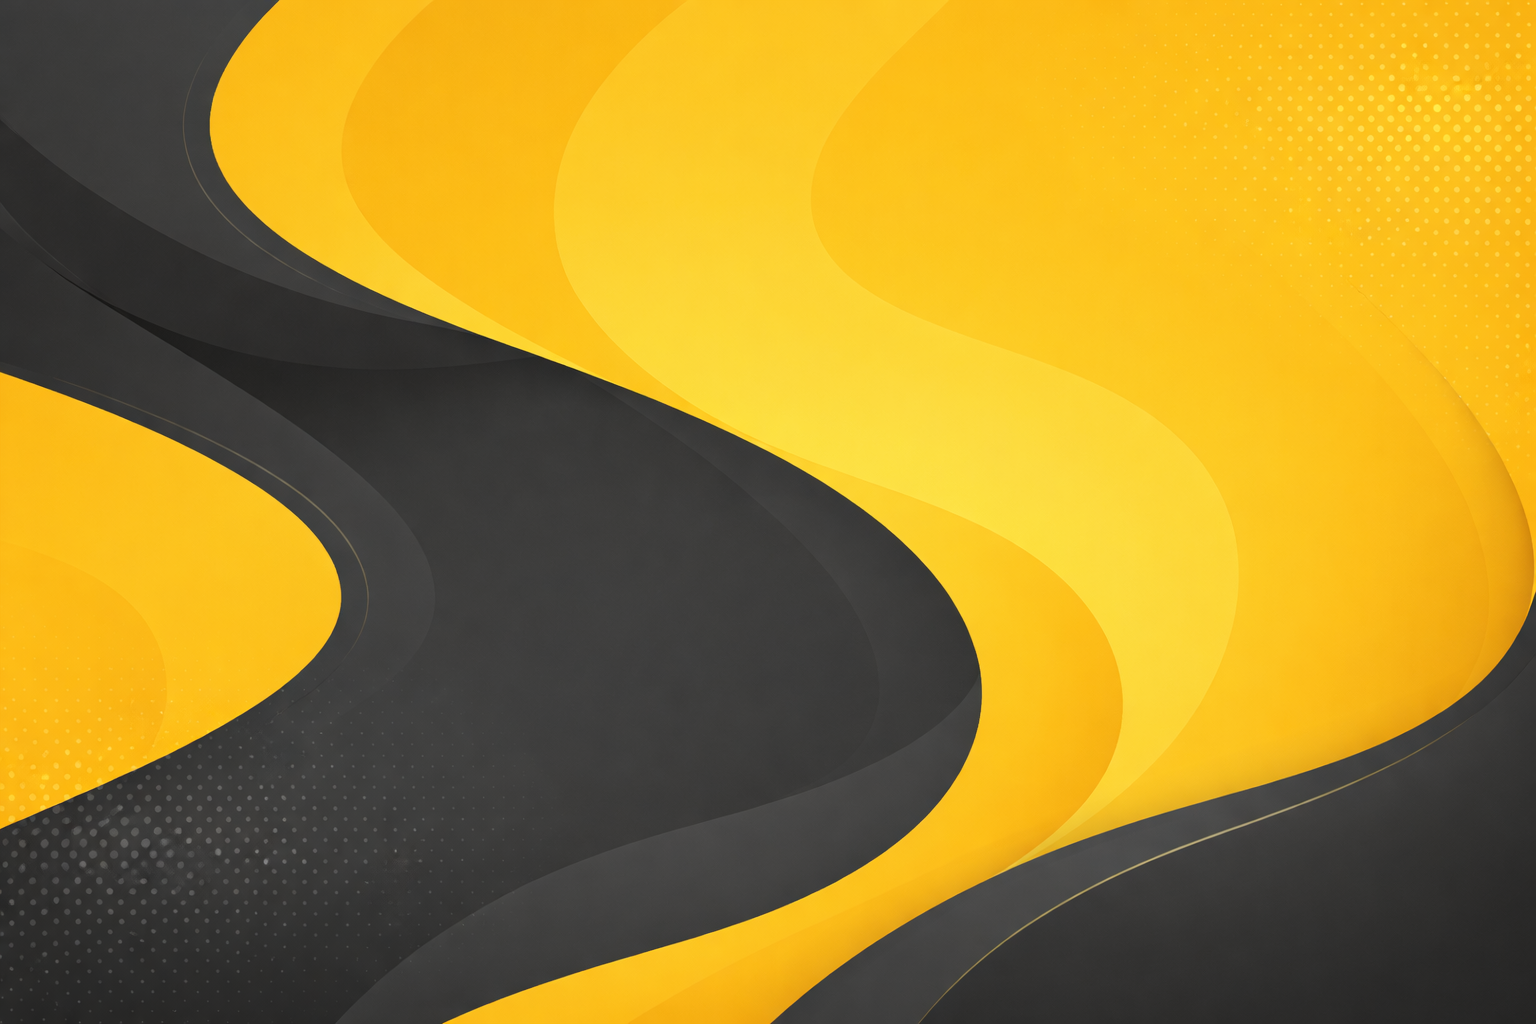
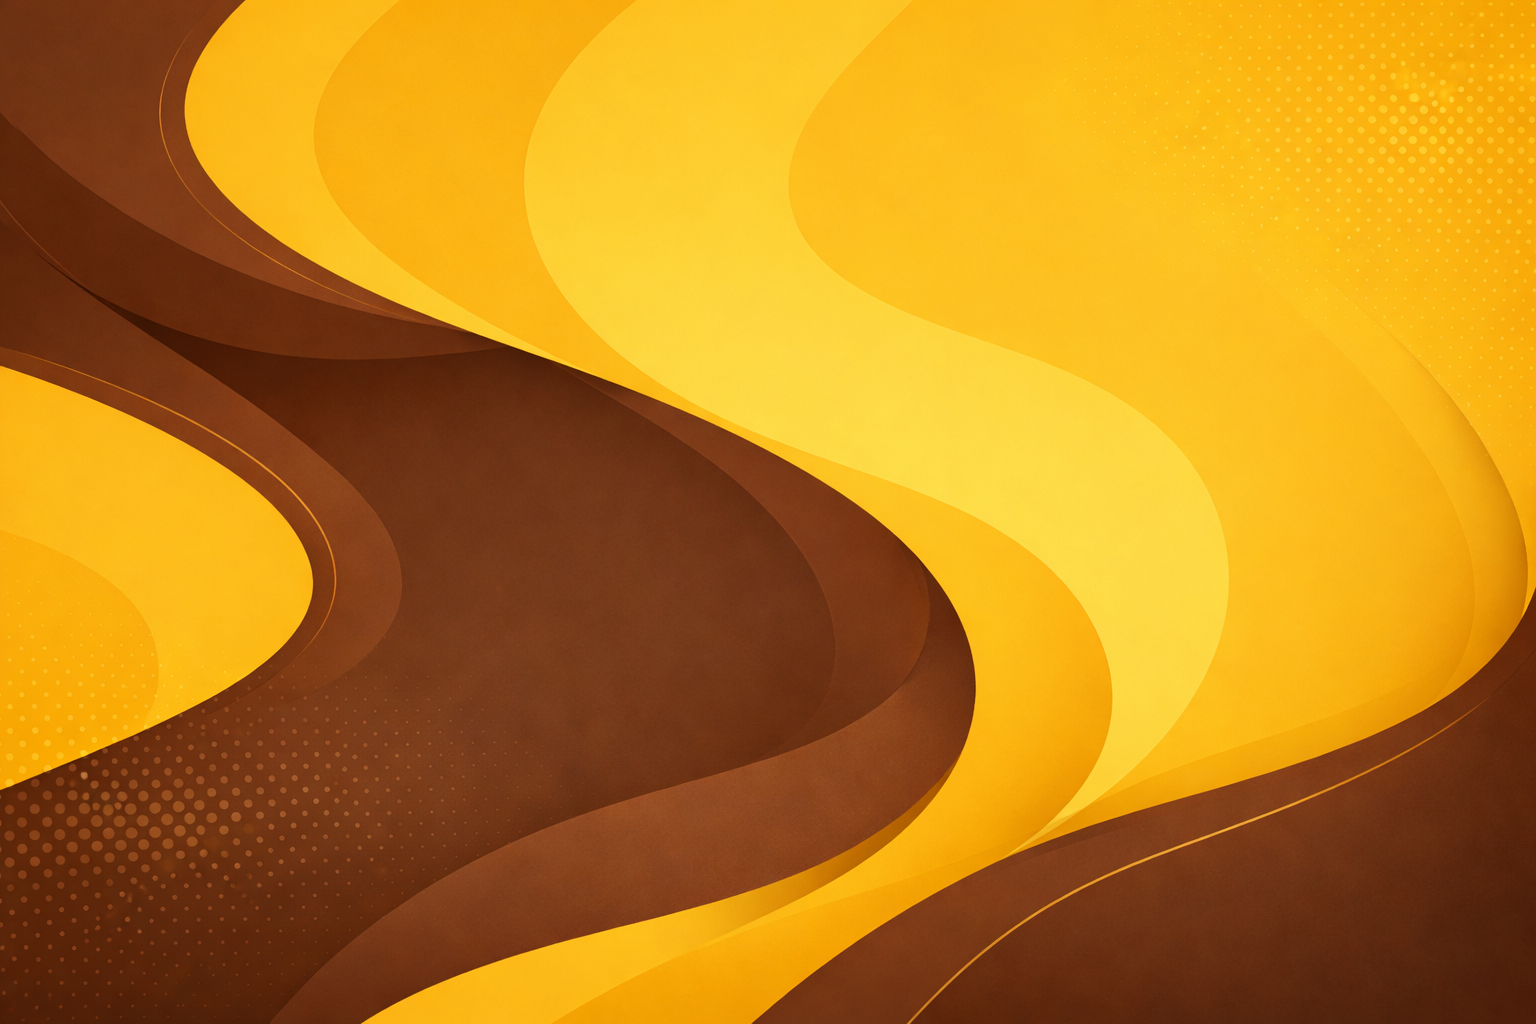
Ajustes no layout da finalização da compra

diff --git a/src/components/cart/CheckoutDrawer/index.tsx b/src/components/cart/CheckoutDrawer/index.tsx
@@ -89,15 +89,14 @@ export function CheckoutDrawer({ isOpen, onClose, cart }: Props) {
 
   return (
     <div
-      className={`fixed top-0 right-0 z-50 h-full w-full text-white shadow-xl transition-transform ${
+      className={`bg-gray-900/80 fixed top-0 right-0 z-50 h-full w-full p-5 text-white shadow-xl transition-transform ${
         isOpen ? 'translate-x-0' : 'translate-x-full'
-      }`}
-    >
+      } md:p-15 lg:p-20 `}>
       <form
         onSubmit={handleSubmit}
-        className="bg-w1 text-g2 h-full overflow-y-auto p-6"
+        className="bg-marrom-1 text-y1 h-full overflow-y-auto p-6"
       >
-        <div className="text-g2 mb-4 flex items-center justify-between">
+        <div className="text-y1 mb-4 flex items-center justify-between">
           <h2 className="text-2xl font-bold">Finalizar Pedido</h2>
           <button
             type="button"
@@ -111,46 +110,46 @@ export function CheckoutDrawer({ isOpen, onClose, cart }: Props) {
         {/* Dados */}
 
         <div className="flex flex-col">
-          <h3 className="mb-2 text-lg font-bold">Seus Dados</h3>
+          <h3 className="mb-2 text-lg font-bold mt-5">Seus Dados</h3>
 
           <label>Nome:</label>
           <input
             name="nome"
             required
             placeholder="Seu nome completo"
-            className="input bg-g1 rounded-md border p-2 placeholder:text-gray-500"
+            className="input bg-marrom-3 rounded-md p-2 placeholder:text-w1 text-w1 border-y1 border-2"
           />
 
-          <label>E-mail:</label>
+          <label className='mt-5'>E-mail:</label>
           <input
             name="email"
             type="email"
             placeholder="seu@email.com"
-            className="input bg-g1 rounded-md border p-2 placeholder:text-gray-500"
+            className="input bg-marrom-3 rounded-md p-2 placeholder:text-w1 text-w1 border-y1 border-2"
           />
 
-          <label>Telefone:</label>
+          <label className='mt-5'>Telefone:</label>
           <input
             name="telefone"
             required
             placeholder="(11) 99999-9999"
-            className="input bg-g1 rounded-md border p-2 placeholder:text-gray-500"
+            className="input bg-marrom-3 rounded-md p-2 placeholder:text-w1 text-w1 border-y1 border-2"
           />
         </div>
 
         {/* Tipo entrega */}
         <div className="flex flex-col">
-          <h3 className="mt-6 mb-2 text-lg font-bold">Tipo de Entrega</h3>
+          <h3 className="mt-7 mb-2 text-lg font-bold">Tipo de Entrega</h3>
           <div className="flex items-center justify-around gap-3">
             <button
               type="button"
-              className={`bg-g1 flex cursor-pointer flex-col items-center justify-center rounded-md border p-2 ${modoEntrega === 'entrega' ? 'opacity-100' : 'opacity-60'}`}
+              className={`bg-w1 text-marrom-1  w-[40%] font-medium flex cursor-pointer flex-col items-center justify-center rounded-md border-y1 border-2 p-2 ${modoEntrega === 'entrega' ? 'opacity-100' : 'opacity-60'}`}
               onClick={escolherEntrega}
             >
               <svg
                 xmlns="http://www.w3.org/2000/svg"
-                width="24"
-                height="24"
+                width="25"
+                height="25"
                 viewBox="0 0 24 24"
                 fill="none"
                 stroke="currentColor"
@@ -170,7 +169,7 @@ export function CheckoutDrawer({ isOpen, onClose, cart }: Props) {
 
             <button
               type="button"
-              className={`bg-g1 flex cursor-pointer flex-col items-center justify-center rounded-md border p-2 ${modoEntrega === 'retirada' ? 'opacity-100' : 'opacity-60'}`}
+              className={`bg-w1 text-marrom-1 w-[40%] flex cursor-pointer flex-col items-center justify-center rounded-md border-y1 border-2 p-2 ${modoEntrega === 'retirada' ? 'opacity-100' : 'opacity-60'}`}
               onClick={escolherRetirada}
             >
               <svg
@@ -198,14 +197,14 @@ export function CheckoutDrawer({ isOpen, onClose, cart }: Props) {
           <div
             className={`mt-3 flex flex-col ${modoEntrega === 'entrega' ? 'visible' : 'hidden'}`}
           >
-            <div className="flex justify-between">
+            <div className="flex justify-between mt-7">
               <div className="flex w-[70%] flex-col">
                 <label>Rua:</label>
                 <input
                   name="rua"
                   type="text"
                   placeholder="Rua"
-                  className="input bg-g1 rounded-md border p-2"
+                  className="input bg-marrom-3 rounded-md p-2 placeholder:text-w1 text-w1 border-y1 border-2"
                 />
               </div>
 
@@ -215,43 +214,43 @@ export function CheckoutDrawer({ isOpen, onClose, cart }: Props) {
                   name="numero"
                   type="text"
                   placeholder="Numero"
-                  className="input bg-g1 rounded-md border p-2"
+                  className="input bg-marrom-3 rounded-md p-2 placeholder:text-w1 text-w1 border-y1 border-2"
                 />
               </div>
             </div>
 
-            <label className="mt-3">Bairro:</label>
+            <label className="mt-5">Bairro:</label>
             <input
               name="bairro"
               type="text"
               placeholder="bairro"
-              className="input bg-g1 rounded-md border p-2"
+              className="input bg-marrom-3 rounded-md p-2 placeholder:text-w1 text-w1 border-y1 border-2"
             />
 
-            <label className="mt-3">Complemento:</label>
+            <label className="mt-5">Complemento:</label>
             <input
               name="complemento"
               type="text"
               placeholder="complemento"
-              className="input bg-g1 rounded-md border p-2"
+              className="input bg-marrom-3 rounded-md p-2 placeholder:text-w1 text-w1 border-y0 border-2"
             />
           </div>
 
           <div
-            className={`mt-3 flex flex-col ${modoEntrega === 'retirada' ? 'visible' : 'hidden'}`}
+            className={`bg-w1 rounded-xl p-3 text-marrom-1 mt-5 flex flex-col ${modoEntrega === 'retirada' ? 'visible' : 'hidden'}`}
           >
-            <h3>Nosso endereço:</h3>
-            <p>Rua da do Açaí, 1234 - Bairro Açaí</p>
+            <h3 className='text-xl font-bold'>Nosso endereço:</h3>
+            <p>Rua do Pastel, 1234 - Bairro Pastelino</p>
             <p>Próximo ao mercado ABC</p>
           </div>
         </div>
 
         {/* Pagamento */}
-        <h3 className="mt-6 mb-2 text-lg font-bold">Forma de Pagamento</h3>
+        <h3 className="mt-7 mb-2 text-lg font-bold">Forma de Pagamento</h3>
 
         <select
           name="pagamento"
-          className="bg-muted border-border text-foreground focus:ring-primary w-full cursor-pointer rounded-lg border px-4 py-3 focus:ring-2 focus:outline-none"
+          className="bg-muted border-2 border-y1 text-foreground text-w1 bg-marrom-3 focus:ring-primary w-full cursor-pointer rounded-lg px-4 py-3 focus:ring-2 focus:outline-none"
         >
           <option value="pix">PIX</option>
           <option value="dinheiro">Dinheiro</option>
@@ -259,7 +258,7 @@ export function CheckoutDrawer({ isOpen, onClose, cart }: Props) {
         </select>
 
         {/* Resumo */}
-        <h3 className="mt-6 mb-2 text-lg font-bold">Resumo do Pedido</h3>
+        <h3 className="mt-7 mb-2 text-lg font-bold">Resumo do Pedido</h3>
 
         {cart.map((item) => (
           <div
@@ -273,7 +272,7 @@ export function CheckoutDrawer({ isOpen, onClose, cart }: Props) {
           </div>
         ))}
 
-        <div className="text-g1 mt-3 flex justify-between font-bold">
+        <div className="text-y1 mt-3 flex justify-between font-bold">
           <span>Total:</span>
           <span>R$ {total.toFixed(2)}</span>
         </div>
@@ -281,7 +280,7 @@ export function CheckoutDrawer({ isOpen, onClose, cart }: Props) {
         {/* Submit */}
         <button
           type="submit"
-          className="bg-g2 text-w1 mt-6 w-full cursor-pointer rounded-lg py-3 font-bold"
+          className="bg-g1 text-w1 mt-6 w-full cursor-pointer rounded-lg py-3 font-bold"
         >
           Enviar Pedido via WhatsApp
         </button>

diff --git a/src/components/layout/SectionMenu/index.tsx b/src/components/layout/SectionMenu/index.tsx
@@ -5,6 +5,8 @@ import { ButtonMenu } from '../../buttons/ButtonMenu'
 import pastelQuatroQueijos from '../../../assets/images/4queijos.png'
 import pastelCalabresa from '../../../assets/images/calabresa.png'
 import pastelCarne from '../../../assets/images/carne.png'
+import pastelBrocolis from '../../../assets/images/brocolis.png'
+import pastelFrango from '../../../assets/images/frango.png'
 
 import bebida from '../../../assets/images/bebidas.jpg'
 
@@ -30,37 +32,44 @@ export function SectionMenu({ onAdd }: SectionMenuProps) {
       {
         id: 1,
         titulo: 'Quatro Queijos',
-        descricao: 'Pastel frito 4 queijos 300gr, mussarela, provolone, parmesão e catupiry',
+        descricao: 'Pastel frito 4 queijos - 300gr, mussarela, provolone, parmesão e catupiry',
         valor: 20.00,
         imagem: pastelQuatroQueijos,
       },
       {
         id: 2,
         titulo: 'Calabresa',
-        descricao: 'Pastel frito calabresa 300gr, calabresa, cebola e queijo mussarela',
+        descricao: 'Pastel frito calabresa - 300gr, calabresa, cebola e queijo mussarela',
         valor: 23.5,
         imagem: pastelCalabresa,
       },
       {
         id: 3,
         titulo: 'Pastel de Carne',
-        descricao: 'Pastel frito carne 300gr, carne moída, cebola e queijo mussarela',
+        descricao: 'Pastel frito carne - 300gr, carne moída, cebola e queijo mussarela',
         valor: 25.6,
         imagem: pastelCarne,
+      },
+      {
+        id: 4,
+        titulo: 'Pastel de Brocolis',
+        descricao: 'Pastel frito brocolis - 300gr, brocolis, tomate, queijo mussarela e catupiry',
+        valor: 22.0,
+        imagem: pastelBrocolis,
       },
     ],
     pAssado: [
       {
-        id: 6,
-        titulo: 'pAssado Média',
-        descricao: 'Ideal para compartilhar',
-        valor: 39.9,
-        imagem: pastelQuatroQueijos
+        id: 5,
+        titulo: 'Pastel de Frango desfiado',
+        descricao: 'Pastel assado frango - 300gr, frango desfiado, milho, queijo mussarela e catupiry',
+        valor: 29.9,
+        imagem: pastelFrango
       },
     ],
     coxinha: [
       {
-        id: 7,
+        id: 6,
         titulo: 'pAssado Média',
         descricao: 'Ideal para compartilhar',
         valor: 39.9,
@@ -69,7 +78,7 @@ export function SectionMenu({ onAdd }: SectionMenuProps) {
     ],
     bebidas: [
       {
-        id: 8,
+        id: 7,
         titulo: 'Refrigerante Lata',
         descricao: '350ml gelado',
         valor: 6.5,

diff --git a/src/components/layout/Header/index.tsx b/src/components/layout/Header/index.tsx
@@ -16,8 +16,8 @@ export function Header({ onOpenCart, totalItens }: HeaderProps) {
 
   return (
     <>
-      <header className="fixed top-0 left-0 z-50 w-full bg-gradient-to-br from-[var(--color-b1)] to-[var(--color-b2)] backdrop-blur-md">
-        <div className="flex items-center justify-between border-b px-8 py-4 text-amber-50">
+      <header className="fixed top-0 left-0 z-50 w-full bg-gradient-to-br from-[var(--color-marrom-2)] to-[var(--color-marrom-1)] backdrop-blur-md">
+        <div className="flex items-center justify-between border-b px-8 py-4 text-amber-50 md:px-18 ">
           <h1 className="text-xl font-bold">Aroma e Sabor</h1>
 
           <nav className="hidden sm:flex">

diff --git a/src/components/layout/Hero/index.tsx b/src/components/layout/Hero/index.tsx
@@ -28,7 +28,7 @@ export function Hero() {
               Pastelaria Aroma e Sabor
             </h1>
             <h2 className="text-[1.2rem] font-medium text-y1 md:text-[1.8rem]">
-              O verdadeiro sabor do pastel artesanal que conquista no primeiro mordida.
+              O verdadeiro sabor do pastel artesanal que conquista na primeira mordida.
             </h2>
             <p className="mt-3 mb-5 text-[1rem] md:text-[1.3rem]">
               Crocrância por fora, recheio generoso por dentro e aquele cheirinho irresistível que te chama de longe.

diff --git a/src/global.css b/src/global.css
@@ -2,13 +2,16 @@
 
 @theme {
   --color-w1: #f6f5fa;
-  --color-g1: #4ff4a5;
-  --color-g2: #43a87b;
+  --color-g1: #86AD44;
+  --color-g2: #6B8837;
   --color-p1: #b351cd;
   --color-p2: #662e85;
   --color-p3: #2c0047;
   --color-b1: #3A3A3A;
   --color-b2: #474644;
+  --color-marrom-1: #5D2507;
+  --color-marrom-2: #773A1B;
+  --color-marrom-3: #ca8765;
   --color-y0: #E3A715;
   --color-y1: #FFBD13;
 }
